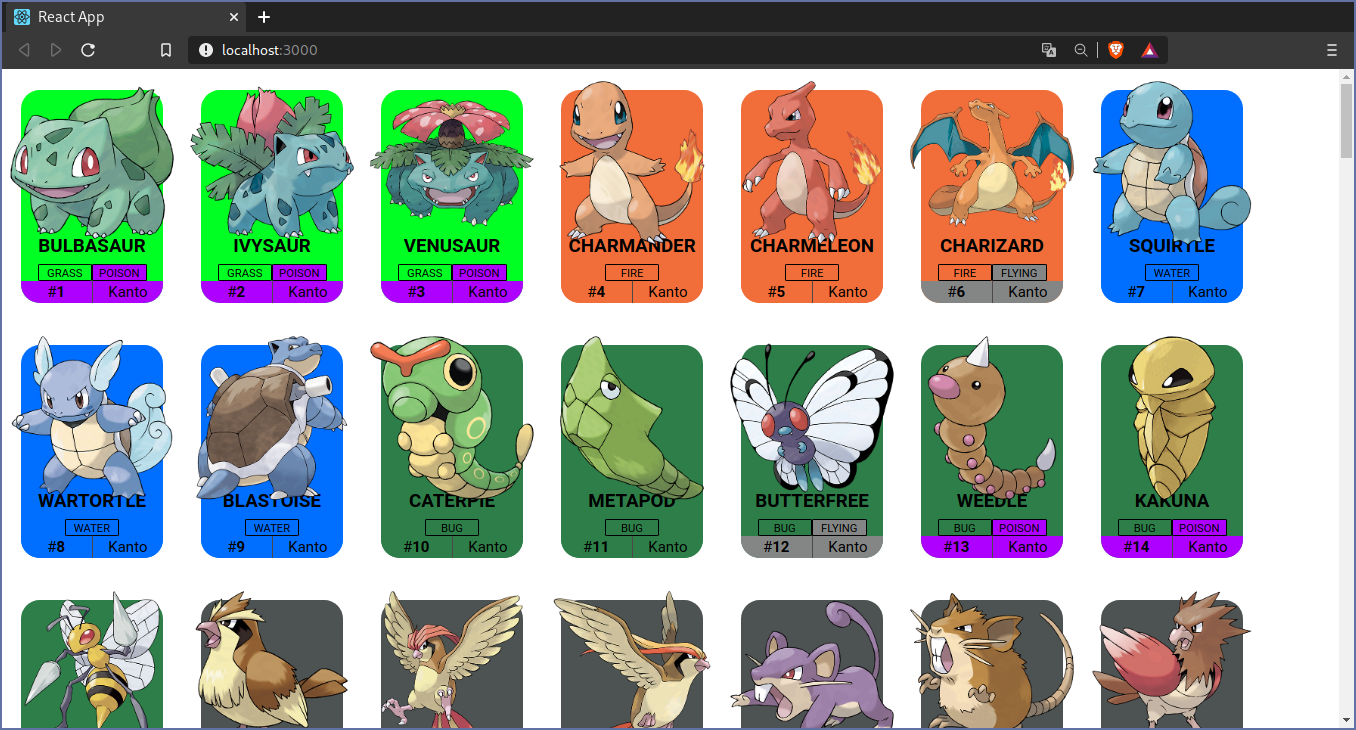
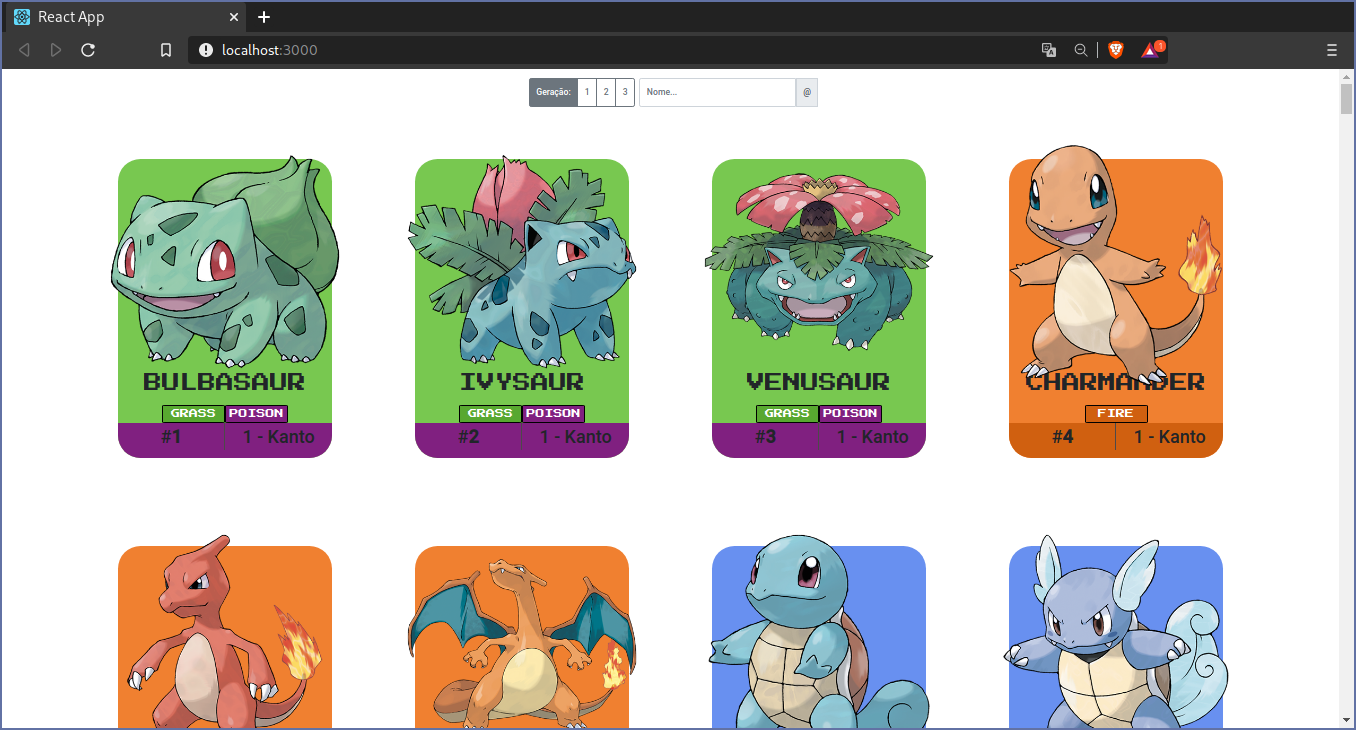
Adição da função de filtrar a lista de pokemon pela geração selecionada na barra SearchBar

diff --git a/src/components/App.jsx b/src/components/App.jsx
@@ -11,12 +11,14 @@ class App extends React.Component{
 
         this.state = {
             nameSearching: '',
-            pokemonsToShow: Array(25).fill().map((array,indice)=> indice), // 1-3:386 || All:893
-            pokemons: Array(30).fill({ name: null, id:null, types:[null,null] })
+            generationSearching: new Set(),
+            pokemonsToShow: Array(386).fill().map((array,indice)=> indice), // 1-3:386 || All:893
+            pokemons: Array(387).fill({ name: null, id:null, types:[null,null], generation: null })
         }
 
         this.requestApiForSavePokemons(this.state.pokemons.length)
 
+	    this.handleSearch = this.handleSearch.bind(this)
         this.setInputSearch = this.setInputSearch.bind(this)
     }
 
@@ -32,7 +34,16 @@ class App extends React.Component{
                         return {
                             name: pok.name || null,
                             id: pok.id || null,
-                            types: pok.types.map( i => i.type.name ) 
+                            types: pok.types.map( i => i.type.name ),
+                            generation: ( pok.id <= 151 ? 1 : (
+                                        pok.id <= 251 ? 2 : (
+                                        pok.id <= 386 ? 3 : (
+                                        pok.id <= 493 ? 4 : (
+                                        pok.id <= 649 ? 5 : (
+                                        pok.id <= 721 ? 5 : (
+                                        pok.id <= 809 ? 6 : (
+                                        pok.id <= 896 ? 7 : 8
+                                        ) ) ) ) ) ) ) ) 
                         }
                     }
                     return Promise.resolve(poks.map(dades))
@@ -48,10 +59,13 @@ class App extends React.Component{
 
     handleSearch(){
         const nameInSearch = this.state.nameSearching
+        const generationSearching = Array.from(this.state.generationSearching)
 
         const pokemonsFiltered = this.state.pokemons.map(
             (pokemon, indice) => {
-                if(pokemon.name.includes(nameInSearch)){
+                if( pokemon.name.includes(nameInSearch) && 
+                ( !generationSearching[0] || generationSearching.includes(pokemon.generation) )
+                ){
                     return indice
                 } else {
                     return null
@@ -69,10 +83,10 @@ class App extends React.Component{
         return (
             <div>
                 <header>
-                    <SearchBar valueInputSearch={this.state.nameSearching} setInputSearch={this.setInputSearch} />
+                    <SearchBar valueInputSearch={this.state.nameSearching} handleSearch={this.handleSearch} setInputSearch={this.setInputSearch} generationsForShow={this.state.generationSearching} />
                 </header>
                 <section className='pokemons'> 
-                    {this.state.pokemonsToShow.map( ids => <Pokemon id={this.state.pokemons[ids].id} name={this.state.pokemons[ids].name} types={this.state.pokemons[ids].types}/>)}         
+                    {this.state.pokemonsToShow.map( ids => <Pokemon id={this.state.pokemons[ids].id} name={this.state.pokemons[ids].name} types={this.state.pokemons[ids].types} generation={this.state.pokemons[ids].generation}/>)}         
                 </section>
             </div>
         )

diff --git a/src/components/SearchBar.jsx b/src/components/SearchBar.jsx
@@ -1,17 +1,29 @@
 import React from 'react'
+
+import 'bootstrap/dist/js/bootstrap.bundle'
+import 'popper.js'
+import $ from 'jquery'
+
 import './SearchBar.css'
  
 
 export default class SearchBar extends React.Component {
-    constructor(props){
+    constructor(props) {
         super(props)
-        this.state = {
-            nameSearch: ''
-        }
     }
 
-    a(event){
-        this.setState({ nameSearch:event.target.value })
+    click(but){
+        $(but.target).button('toggle')
+
+        const numberGeneration = parseInt(but.target.innerText)
+        const newStateForGeneration = !!but.target.classList[2] 
+
+        if(newStateForGeneration){
+            this.props.generationsForShow.add(numberGeneration)
+        } else {
+            this.props.generationsForShow.delete(numberGeneration)
+        }
+	    this.props.handleSearch()
     }
 
     render(){
@@ -20,9 +32,9 @@ export default class SearchBar extends React.Component {
                 <div className="btn-toolbar geracoes mr-2" role="toolbar" aria-label="Toolbar com grupos de botões"> 
                     <div className="btn-group" role="group" aria-label="Primeiro grupo">
                         <button type="button" className="btn btn-secondary">Geração: </button>
-                        <button type="button" className="btn btn-outline-secondary">1</button>
-                        <button type="button" className="btn btn-outline-secondary">2</button>
-                        <button type="button" className="btn btn-outline-secondary">3</button>
+                        <button type="button" onClick={ i => this.click(i)} className="btn btn-outline-secondary">1</button>
+                        <button type="button" onClick={ i => this.click(i)} className="btn btn-outline-secondary">2</button>
+                        <button type="button" onClick={ i => this.click(i)} className="btn btn-outline-secondary">3</button>
                         
                     </div>
                 </div> 

diff --git a/src/components/Pokemon.jsx b/src/components/Pokemon.jsx
@@ -23,10 +23,9 @@ export default class Pokemon extends React.Component {
                     <section className={`atributes bg-color-dark-${this.props.types[1] || this.props.types[0]}`}>
                         <ul>
                             <li>#<b>{this.props.id}</b></li>
-                            <li>Kanto</li>
+                            <li>{this.props.generation} - Kanto</li>
                         </ul>
                     </section>
-                    
                 </div> 
             </div>
         )

diff --git a/README.md b/README.md
@@ -1,1 +1,3 @@
 # pokedex
+
+![Screenshot](./screenshot.png)
